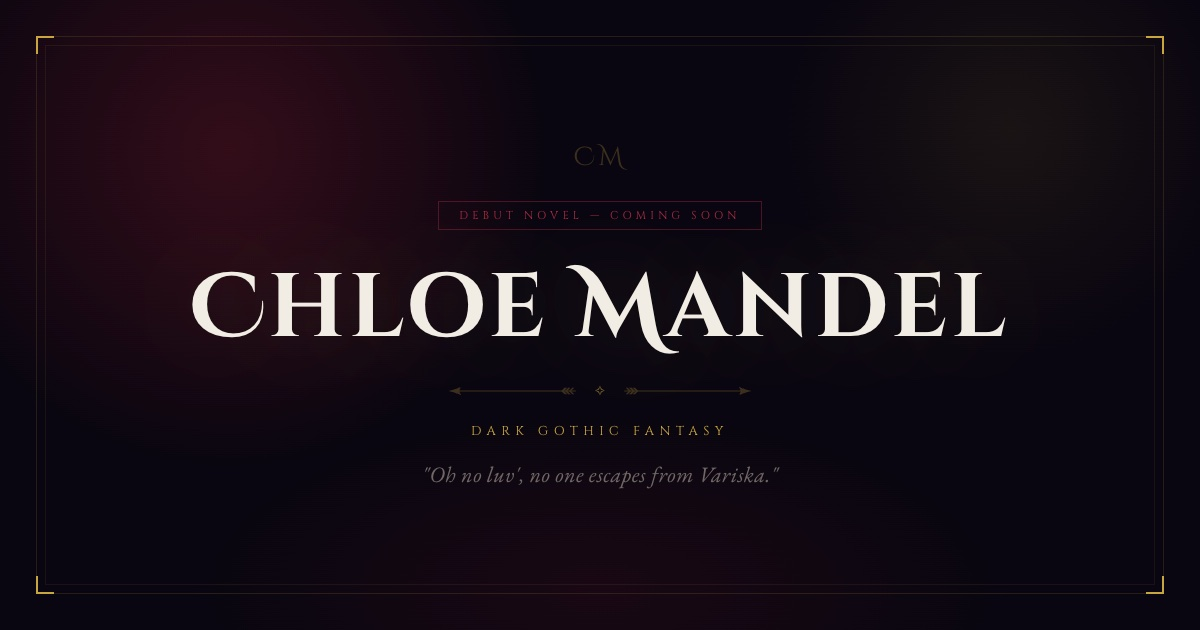
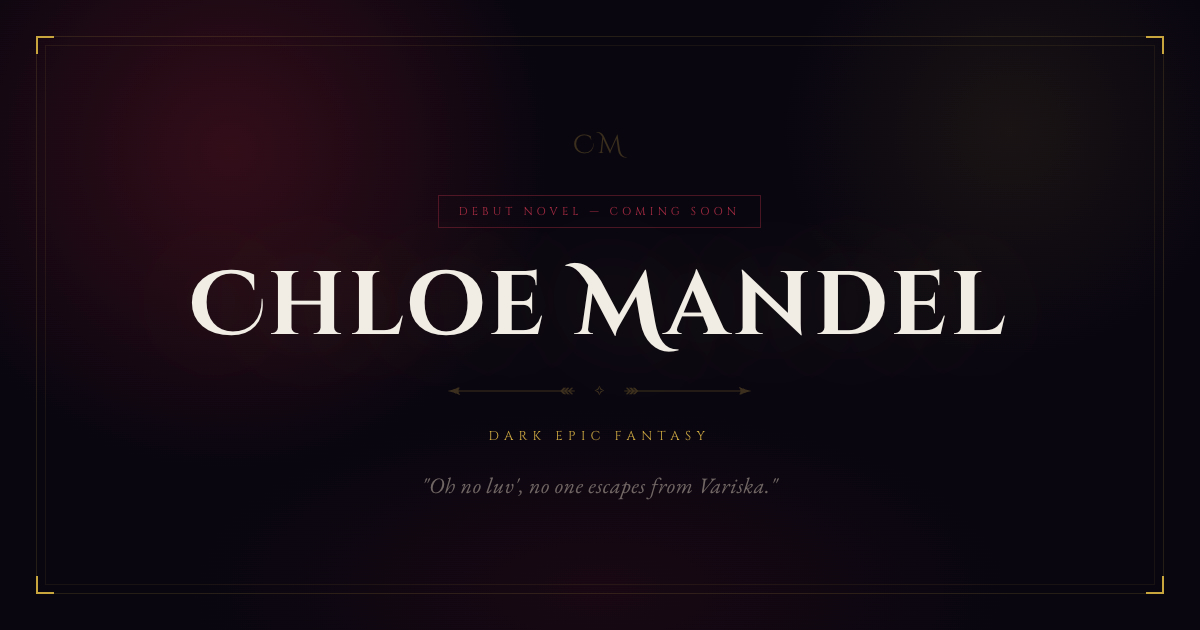
Update genre

diff --git a/index.html b/index.html
@@ -5,8 +5,8 @@
   <meta name="viewport" content="width=device-width, initial-scale=1.0">
 
   <!-- ── Primary meta ───────────────────────────────────────── -->
-  <title>Chloe Mandel — Dark Gothic Fantasy Author</title>
-  <meta name="description" content="Chloe Mandel writes dark and gothic fantasy. Debut novel Curse of Nohvan coming soon.">
+  <title>Chloe Mandel — Dark Epic Fantasy Author</title>
+  <meta name="description" content="Chloe Mandel writes dark and epic fantasy. Debut novel Curse of Nohvan coming soon.">
   <meta name="author" content="Chloe Mandel">
   <meta name="theme-color" content="#c9a53f" />
   <link rel="manifest" href="/manifest.json">
@@ -21,20 +21,20 @@
   <!-- ── Open Graph (Facebook, Instagram link previews, etc.) ─ -->
   <meta property="og:type"        content="website">
   <meta property="og:site_name"   content="Chloe Mandel">
-  <meta property="og:title"       content="Chloe Mandel — Dark Gothic Fantasy Author">
-  <meta property="og:description" content="Welcome to the dark gothic fantasy worlds of Chloe Mandel. Step into a cursed valley and discover her upcoming debut novel, Curse of Nohvan.">
+  <meta property="og:title"       content="Chloe Mandel — Dark Epic Fantasy Author">
+  <meta property="og:description" content="Welcome to the dark epic fantasy worlds of Chloe Mandel. Step into a cursed valley and discover her upcoming debut novel, Curse of Nohvan.">
   <meta property="og:url"         content="https://chloemandel.com">
   <meta property="og:image"        content="https://chloemandel.com/images/og-image.jpg">
   <meta property="og:image:width"  content="1200">
   <meta property="og:image:height" content="630">
   <meta property="og:image:type"   content="image/jpeg">
-  <meta property="og:image:alt" content="Dark gothic fantasy teaser graphic for Chloe Mandel's upcoming debut novel, Curse of Nohvan, featuring the quote "Oh no luv', no one escapes from Variska."" />
+  <meta property="og:image:alt" content="Dark epic fantasy teaser graphic for Chloe Mandel's upcoming debut novel, Curse of Nohvan, featuring the quote "Oh no luv', no one escapes from Variska."" />
   <meta property="og:locale" content="en_GB" />
 
   <!-- ── Twitter / X Card (also used by Bluesky for previews) ─ -->
   <meta name="twitter:card"        content="summary_large_image">
-  <meta name="twitter:title"       content="Chloe Mandel — Dark Gothic Fantasy Author">
-  <meta name="twitter:description" content="Chloe Mandel writes dark and gothic fantasy. Debut novel coming soon.">
+  <meta name="twitter:title"       content="Chloe Mandel — Dark Epic Fantasy Author">
+  <meta name="twitter:description" content="Chloe Mandel writes dark and epic fantasy. Debut novel coming soon.">
   <meta name="twitter:image"       content="https://chloemandel.com/images/og-image.jpg">
 
   <!-- ── Canonical ────────────────────────────────────────────── -->
@@ -49,7 +49,7 @@
         "@type": "Person",
         "@id": "https://chloemandel.com/#author",
         "name": "Chloe Mandel",
-        "description": "London-based dark gothic fantasy author",
+        "description": "London-based dark epic fantasy author",
         "url": "https://chloemandel.com",
         "sameAs": [
           "https://www.instagram.com/chloemandelwrites",
@@ -63,7 +63,7 @@
         "name": "Welcome to Variska",
         "alternateName": "Curse of Nohvan: Welcome to Variska",
         "author": { "@id": "https://chloemandel.com/#author" },
-        "genre": "Dark Gothic Fantasy",
+        "genre": "Dark Epic Fantasy",
         "isPartOf": {
           "@type": "BookSeries",
           "name": "Curse of Nohvan"
@@ -76,7 +76,7 @@
         "@id": "https://chloemandel.com/#website",
         "name": "Chloe Mandel",
         "url": "https://chloemandel.com",
-        "description": "Chloe Mandel writes dark and gothic fantasy. Debut novel Curse of Nohvan coming soon.",
+        "description": "Chloe Mandel writes dark and epic fantasy. Debut novel Curse of Nohvan coming soon.",
         "author": { "@id": "https://chloemandel.com/#author" }
       }
     ]
@@ -163,7 +163,7 @@
         </div>
 
         <p class="hero-byline">by <strong>Chloe Mandel</strong></p>
-        <p class="hero-genre">A Dark Gothic Fantasy Novel</p>
+        <p class="hero-genre">A Dark Epic Fantasy Novel</p>
 
         <div class="hero-actions">
           <a href="#books" class="btn btn--primary">Discover the Book</a>
@@ -215,7 +215,7 @@
             <span class="book-badge">Coming Soon</span>
             <p class="book-series">Curse of Nohvan</p>
             <h3 class="book-title">Welcome to Variska</h3>
-            <p class="book-genre">Dark Gothic Fantasy</p>
+            <p class="book-genre">Dark Epic Fantasy</p>
             <p class="book-hook">
               A simple escort mission.
               <br>A cursed valley.
@@ -305,7 +305,7 @@
 
         <div class="footer-brand">
           <p class="footer-name">Chloe Mandel</p>
-          <p class="footer-tagline">Dark &amp; Gothic Fantasy</p>
+          <p class="footer-tagline">Dark &amp; Epic Fantasy</p>
         </div>
 
         <div class="footer-rule" aria-hidden="true">

diff --git a/og-card.html b/og-card.html
@@ -16,7 +16,14 @@
 -->
 <head>
   <meta charset="UTF-8">
+
+  <!-- ── Google Fonts ──────────────────────────────────────── -->
+  <link rel="preconnect" href="https://fonts.googleapis.com">
+  <link rel="preconnect" href="https://fonts.gstatic.com" crossorigin>
+  <link rel="stylesheet" href="https://fonts.googleapis.com/css2?family=Cinzel+Decorative:wght@400;700&family=Cinzel:wght@400;500;600&family=EB+Garamond:ital,wght@0,400;0,500;1,400;1,500&display=swap">
+
   <link rel="stylesheet" href="css/themes/current.css">
+  <link rel="stylesheet" href="css/style.css">
   <style>
     :root {
       /* og-card alpha variants — derived from theme variables via color-mix */
@@ -222,7 +229,7 @@
         <span class="rule-glyph">✧</span>
         <svg class="rule-arrow rule-arrow--right" xmlns="http://www.w3.org/2000/svg" viewBox="0 0 780 60"><rect x="10" y="27" width="696" height="6" fill="currentColor"/><polygon points="15,10 29,10 49,30 29,50 15,50 35,30" fill="currentColor"/><polygon points="37,10 51,10 71,30 51,50 37,50 57,30" fill="currentColor"/><polygon points="59,10 73,10 93,30 73,50 59,50 79,30" fill="currentColor"/><path d="M 695,5 Q 740,25 770,30 Q 740,35 695,55 Q 715,30 695,5 Z" fill="currentColor"/></svg>
       </div>
-      <p class="genre">Dark Gothic Fantasy</p>
+      <p class="genre">Dark Epic Fantasy</p>
       <p class="hook">"Oh no luv', no one escapes from Variska."</p>
     </div>
   </div>

diff --git a/css/style.css b/css/style.css
@@ -1,6 +1,6 @@
 /* ══════════════════════════════════════════════════════════
    CHLOE MANDEL — AUTHOR WEBSITE
-   Dark Gothic Fantasy Design System
+   Dark Epic Fantasy Design System
    ══════════════════════════════════════════════════════════ */
 
 /* ─── LAYOUT & TIMING ────────────────────────────────────── */

diff --git a/archive/books-section-grid.html b/archive/books-section-grid.html
@@ -55,7 +55,7 @@
           <span class="book-badge">Coming Soon</span>
           <p class="book-series">Curse of Nohvan</p>
           <h3 class="book-title">Welcome to Variska</h3>
-          <p class="book-genre">Dark Gothic Fantasy</p>
+          <p class="book-genre">Dark Epic Fantasy</p>
           <p class="book-hook">
             A simple escort mission.
             <br>A cursed valley.

diff --git a/templates/instagram-card.html b/templates/instagram-card.html
@@ -205,7 +205,7 @@
 
     <div class="content">
       <p class="url">chloemandel.com</p>
-      <p class="genre">Dark Gothic Fantasy</p>
+      <p class="genre">Dark Epic Fantasy</p>
       <div class="divider"></div>
       <p class="hook">&ldquo;Oh no luv&rsquo;, no one escapes from Variska.&rdquo;</p>
       <p class="badge">Debut Novel &mdash; Coming Soon</p>
